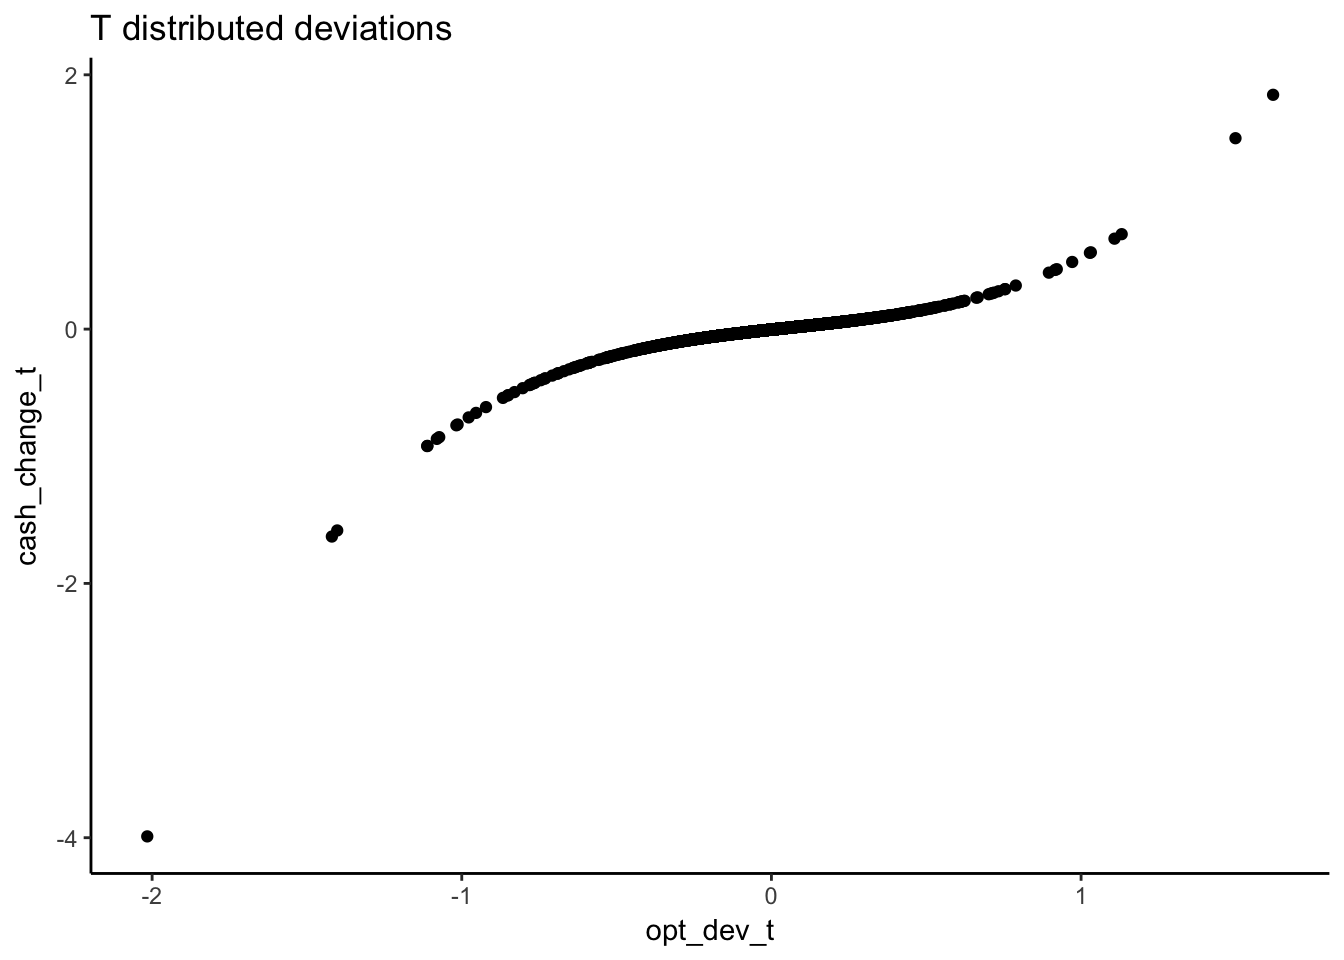
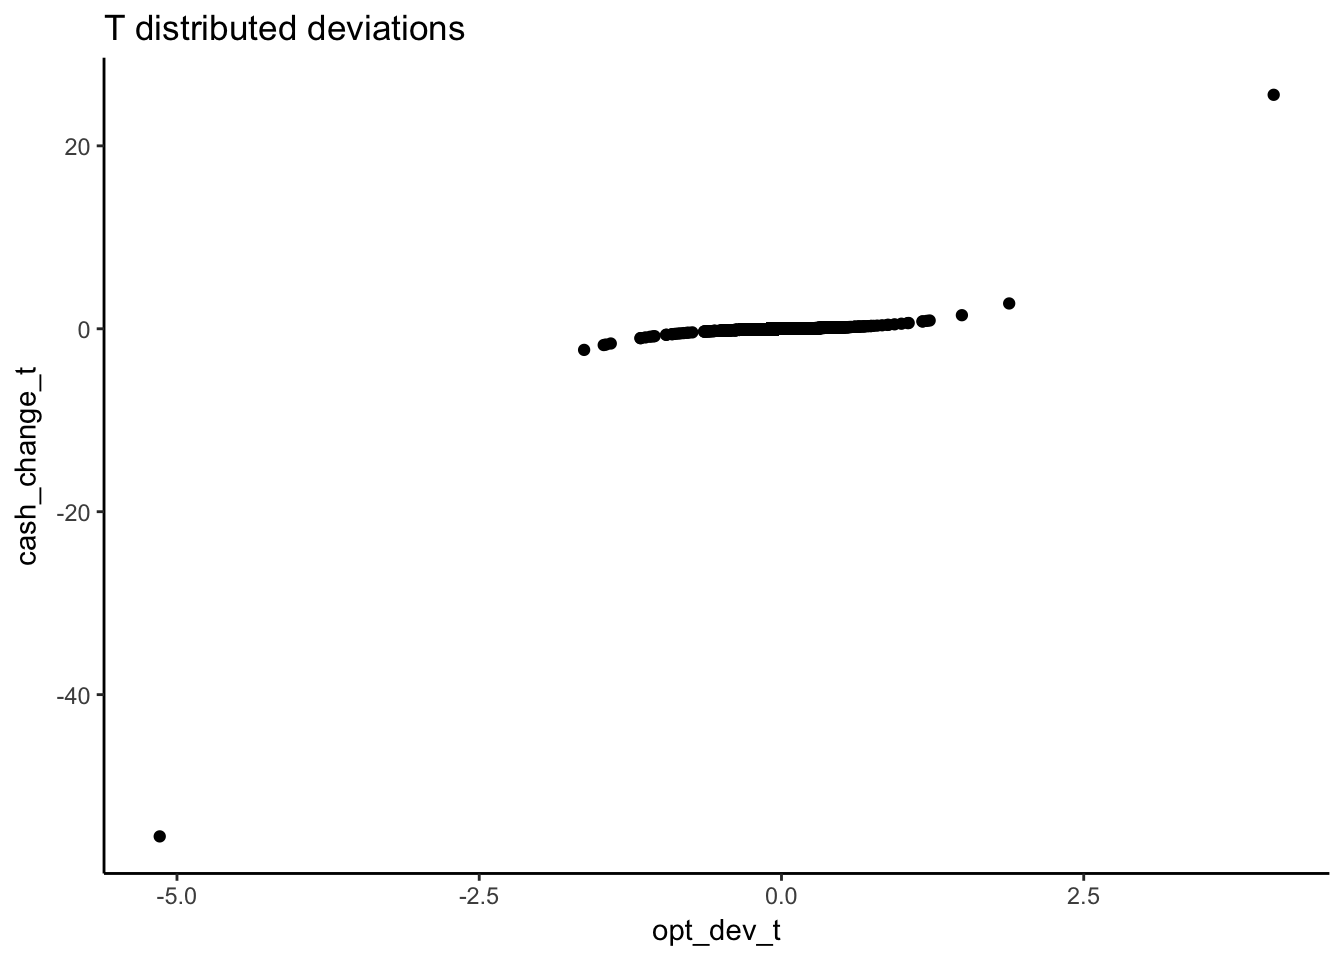
url latest paper + correction cubic post

diff --git a/content/post/2018-03-15-quadratic-and-cubic-terms-in-linear-models.html b/content/post/2018-03-15-quadratic-and-cubic-terms-in-linear-models.html
@@ -18,8 +18,10 @@ math: true
 + \beta_3 \Delta OPT_i^3 + \epsilon_i
 \]</span></p>
 <p>The results show that <span class="math inline">\(\beta_0 = -0.0038\)</span>, <span class="math inline">\(\beta_1=0.2633\)</span>, <span class="math inline">\(\beta_2=-0.0790\)</span>, and <span class="math inline">\(\beta_3=0.3827\)</span>. The problem is that those coefficients alone do not necessarily tells us anything about the three regimes and the speed of cash holding adjustment. Typically we are interested in the marginal effect of a variable. In this case the speed of adjustment which you can see as</p>
-<p><span class="math display">\[\frac{\partial \Delta CH}{\partial \Delta OPT} = \beta_1 + 2 \beta_2 OPT + 
-  3\beta_3 OPT^2\]</span></p>
+<p><span class="math display">\[
+\frac{\partial \Delta CH}{\partial \Delta OPT} = \beta_1 + 2 \beta_2 \Delta OPT + 
+  3\beta_3 \Delta OPT^2
+\]</span></p>
 <p>You can see that the speed of adjustment depends on three coefficients and the value of <span class="math inline">\(\Delta OPT\)</span>. One way to represent the effect of <span class="math inline">\(\Delta OPT\)</span> on <span class="math inline">\(\Delta CH\)</span> is to give the effect for different levels of <span class="math inline">\(\Delta OPT\)</span> and that is what the paper does. Another way of doing that is to make a plot. I quickly show how you can do that in <code>R</code>.</p>
 <p>First of all, I have to make a couple of assumptions because I don’t have the full data. From the descriptive statistics, we know the meand (<code>mopt</code>) and (<code>sdopt</code>) for <span class="math inline">\(\Delta OPT\)</span>. From those we can generate the distribution of deviations. I tried two options: a normal distribution (<code>opt_dev_norm</code>) and a t-distribution with 3 degrees of freedom (<code>opt_dev_t</code>). The latter will give us larger outliers. Than we just calculate the cash holding change based on the ’s above and the OLS specification. Finally, you can plot the relation between change in cash holding and the deviation from the optimal level.</p>
 <p>What struck me was that the three regimes are much more clear with the t-distribution than with the normal distribution for the deviations. In other words, it looks like the extreme cases are doing a lot of work to identify the regimes.</p>
@@ -30,8 +32,8 @@ sdopt = 0.1488
 opt_dev_norm = rnorm(1e4, mopt, sdopt)
 opt_dev_t = rt(1e4, df = 3) * sqrt(sdopt^2/3) + mopt
 round(quantile(opt_dev_norm, probs = c(0.75, 0.5, 0.25)), 2)</code></pre>
-<pre><code>##   75%   50%   25% 
-##  0.09 -0.01 -0.11</code></pre>
+<pre><code>##  75%  50%  25% 
+##  0.1  0.0 -0.1</code></pre>
 <pre class="r"><code>round(quantile(opt_dev_t, probs = c(0.75, 0.5, 0.25)), 2)</code></pre>
 <pre><code>##   75%   50%   25% 
 ##  0.06  0.00 -0.07</code></pre>

diff --git a/content/publication/tone_negotiation.md b/content/publication/tone_negotiation.md
@@ -11,7 +11,7 @@ selected = false
 title = "The effect of performance-evaluation schemes on predicted transfer prices: Do leadership tone and perceived fairness concern matter?"
 # url_code = "#
 # url_dataset = "#"
-url_pdf = ""
+url_pdf = "https://doi.org/10.1016/j.mar.2018.02.003"
 url_project = ""
 # url_slides = "#"
 # url_video = "#"
